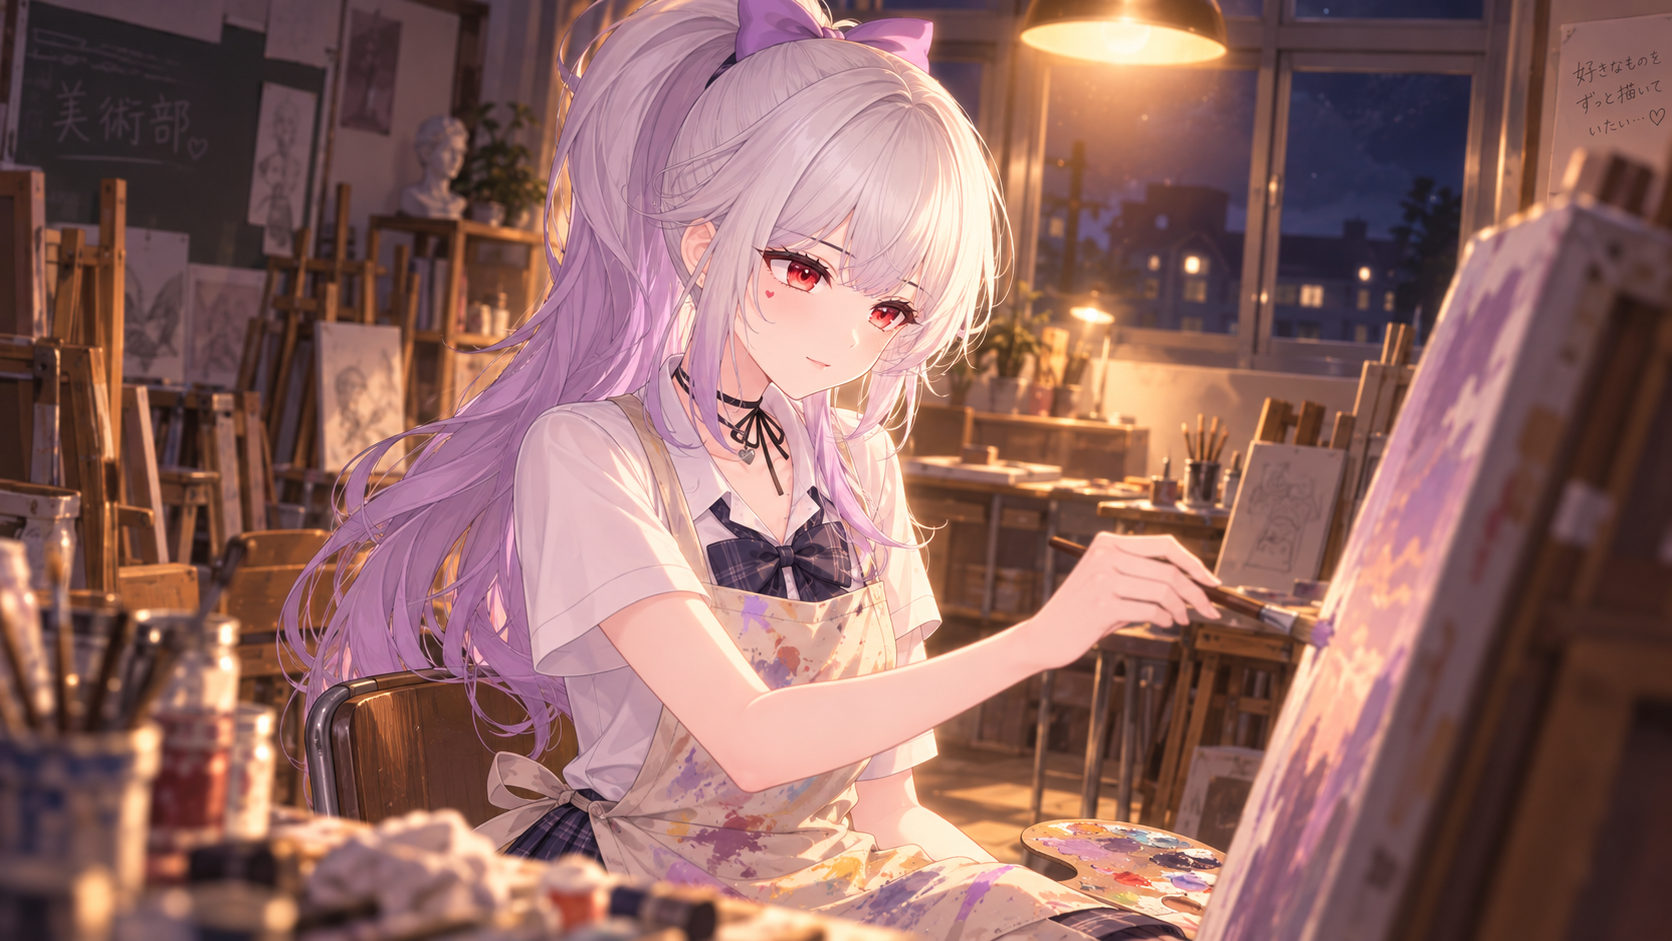
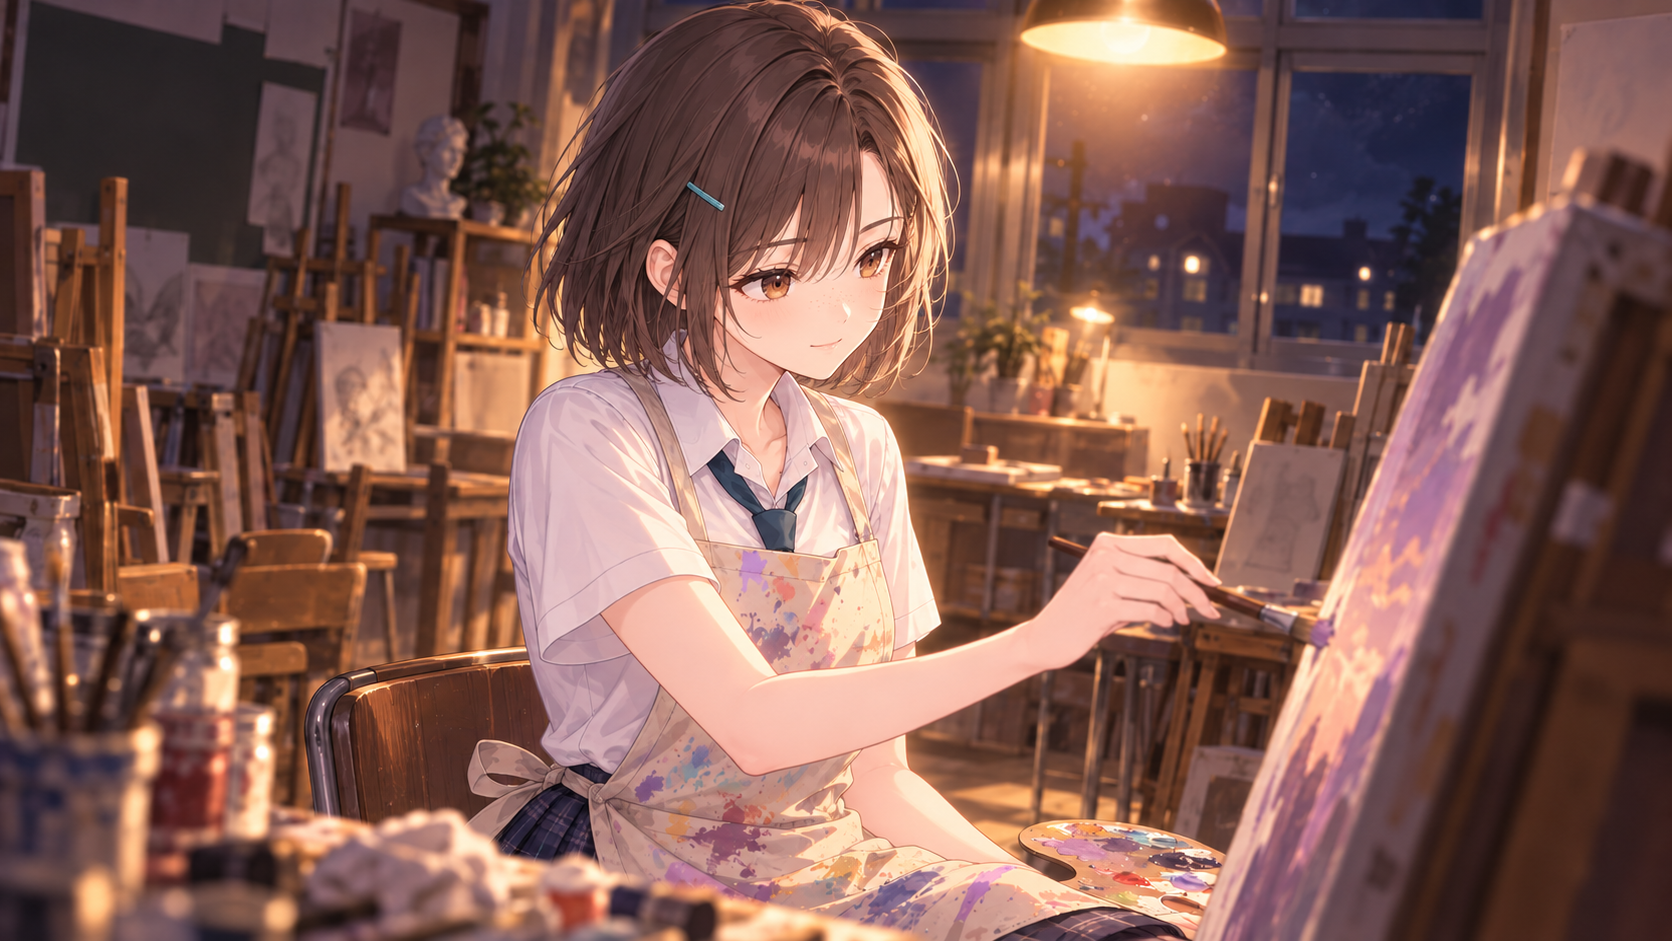
CH10 미술 동아리 CG 원본 구도 반영

diff --git a/docs/illustration-replacement-prompts.md b/docs/illustration-replacement-prompts.md
@@ -241,7 +241,7 @@ CG는 공통 CG 블록과 파일별 장면 프롬프트를 이어 붙인다. 무
 | [cg-08.png](../assets/cg/cg-08.png) · CH08 첫눈 | 원본의 구도와 자세를 유지한다. 왼쪽 전경에 허리 위까지 보이는 온이유를 크게 배치하고, 몸은 오른쪽으로 살짝 틀며 한 손으로 가슴 앞 가방끈을 잡는다. 고개와 시선은 위쪽 오른편의 첫눈을 향한다. 왼쪽 끝에는 학교 입구와 글자 없는 표지판, 오른쪽 3분의 1에는 따뜻한 가로등을 두고 눈 덮인 길과 건물, 분홍빛 겨울 저녁 하늘을 배경으로 한다. 새 캐릭터 외형에 짙은 남색 코트와 연한 베이지 체크 목도리를 입히고 글자·로고는 넣지 않는다. |
 | [cg-09.png](../assets/cg/cg-09.png) · 1학년→2학년 전환 | 원본의 구도와 자세를 유지한다. 온이유를 화면 왼쪽 전경에 허벅지 중간까지 보이게 두고, 몸은 학교 안쪽 중앙 소실점을 향해 걸어간다. 양쪽 어깨에 가방을 멘 채 한쪽 다리를 내딛고, 고개만 오른쪽 어깨 너머로 돌려 오른쪽을 향한 옆얼굴로 바라본다. 양옆의 높은 교문 기둥과 화면 위쪽을 덮은 벚꽃 가지, 중앙의 학교 건물·등교하는 학생들, 아래쪽으로 이어지는 길의 원근 배치를 그대로 살린다. 새 캐릭터 기준 외형과 교복을 적용하고 표지판과 학교 건물에는 읽을 수 있는 글자·로고를 넣지 않는다. |
 | [cg-10.png](../assets/cg/cg-10.png) · CH09 새로운 반 | 원본의 구도와 자세를 유지한다. 허리 위 근접 구도로 온이유를 화면 중앙 왼쪽에 두고, 몸과 어깨는 오른쪽 길을 향해 비스듬히 돌린다. 걸음을 이어가며 얼굴만 왼쪽 전경의 동행자를 돌아보고, 가방끈이 어깨에 걸린 모습과 조심스러운 미소를 살린다. 동행자는 얼굴이 보이지 않는 흐린 어깨 실루엣으로 화면 맨 왼쪽에 둔다. 오른쪽 절반에는 노을이 낮게 비치는 길과 난간·도시 불빛을 두고, 단풍 가지가 화면 위쪽을 감싼다. 새 캐릭터 기준 외형과 교복을 적용하고 글자·로고는 넣지 않는다. |
-| [cg-11.png](../assets/cg/cg-11.png) · CH10 동아리 활동 | 방과 후 미술 동아리실, 온이유가 작업대 앞에 앉아 붓으로 작은 그림을 마무리한다. 주변의 물감과 종이, 캔버스가 보이고 스탠드 조명이 손과 그림에 모인다. |
+| [cg-11.png](../assets/cg/cg-11.png) · CH10 동아리 활동 | 원본의 구도와 자세를 유지한다. 화면 중앙 왼쪽 나무 의자에 앉은 온이유가 몸을 오른쪽으로 돌리고, 고개와 시선은 캔버스에 둔다. 오른팔을 화면 중앙을 가로질러 뻗어 오른쪽 전경의 큰 캔버스에 붓을 대며, 다른 손의 팔레트는 무릎 가까운 아래쪽 중앙 오른편에 둔다. 왼쪽 아래 전경에는 흐릿한 물감병과 붓을 두고, 뒤에는 이젤과 작업대·밤 창문을 배치하며 위쪽 따뜻한 펜던트 조명을 유지한다. 새 캐릭터 외형과 교복 위의 물감 묻은 앞치마를 적용하고, 칠판·그림·소품에는 읽을 수 있는 글자·로고를 넣지 않는다. |
 | [cg-12.png](../assets/cg/cg-12.png) · CH11 방학 계획 | 더운 여름날 교실 또는 미술실, 온이유가 책상에 앉아 접이식 부채로 더위를 식히며 물병과 스케치북을 곁에 둔다. 열린 창으로 들어오는 여름빛과 느긋한 방학 전 분위기. |
 | [cg-13-1.png](../assets/cg/cg-13-1.png) · CH12 우연한 만남, 기본 의상 | 동네 서점의 게임 잡지·캐릭터 굿즈 매대 앞, 흰 티셔츠와 데님 하의를 입은 온이유가 진열물을 살펴보다 플레이어를 발견하고 반갑게 돌아본다. 잡지 표지와 진열물은 읽을 수 없는 가상 그래픽으로 처리한다. |
 | [cg-13-2.png](../assets/cg/cg-13-2.png) · CH12 우연한 만남, 꾸민 의상 | 같은 서점의 게임 잡지 매대에서 검정 데님 재킷과 검정 바지 차림의 온이유가 잡지를 들고 반갑게 인사한다. 기본 의상 변형과 같은 서사 순간이지만 화면 배치와 손동작은 새로 구성한다. |
@@ -277,4 +277,4 @@ CG는 공통 CG 블록과 파일별 장면 프롬프트를 이어 붙인다. 무
 - 이미지 모델이 만든 문자·로고·워터마크는 제거하고, 필요한 문구는 별도로 편집한다.
 - 인물 외형 참조에는 승인된 공통 캐릭터 기준 이미지만 사용한다. 사용자가 특정 의상 참고 이미지를 제공한 경우에는 지정된 의상 형태만 참고하고 얼굴·머리·포즈·배경은 복사하지 않는다. 결과가 새 공통 캐릭터 기준과 다르면 해당 파일을 다시 생성한다.
 
-이 문서는 교체 대상의 프롬프트와 파일 대응표다. S·W·G·A·C1·P1·C13·P13·C16·P16·C24·P24·GR 스탠딩 세트와 타이틀 표지, cg-01~cg-10의 생성 및 파일 교체를 완료했으며, 나머지 CG는 한 장씩 진행한다.
+이 문서는 교체 대상의 프롬프트와 파일 대응표다. S·W·G·A·C1·P1·C13·P13·C16·P16·C24·P24·GR 스탠딩 세트와 타이틀 표지, cg-01~cg-11의 생성 및 파일 교체를 완료했으며, 나머지 CG는 한 장씩 진행한다.
